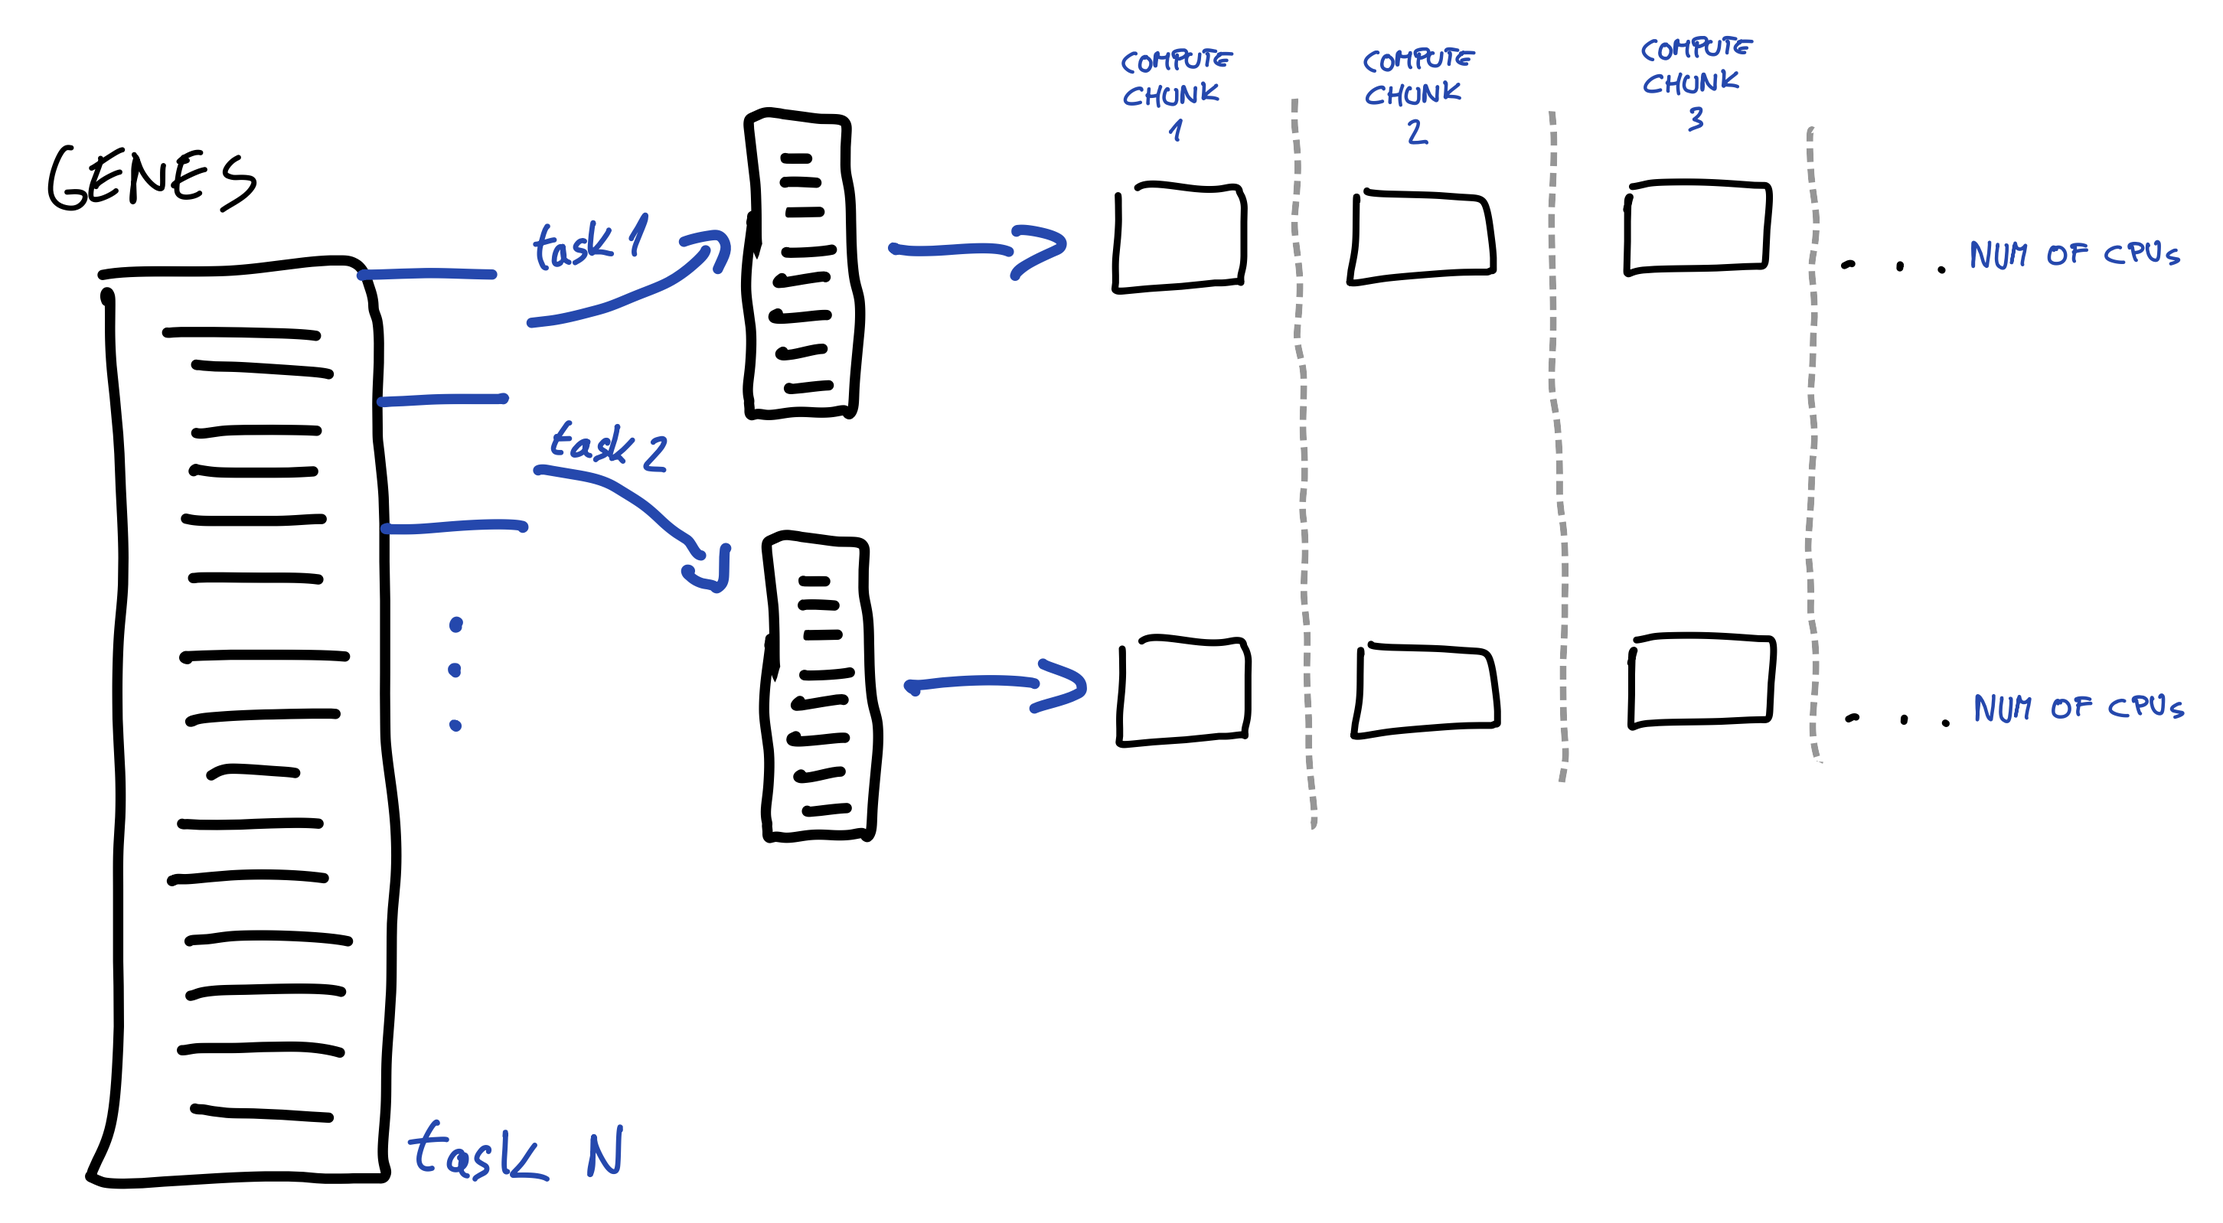
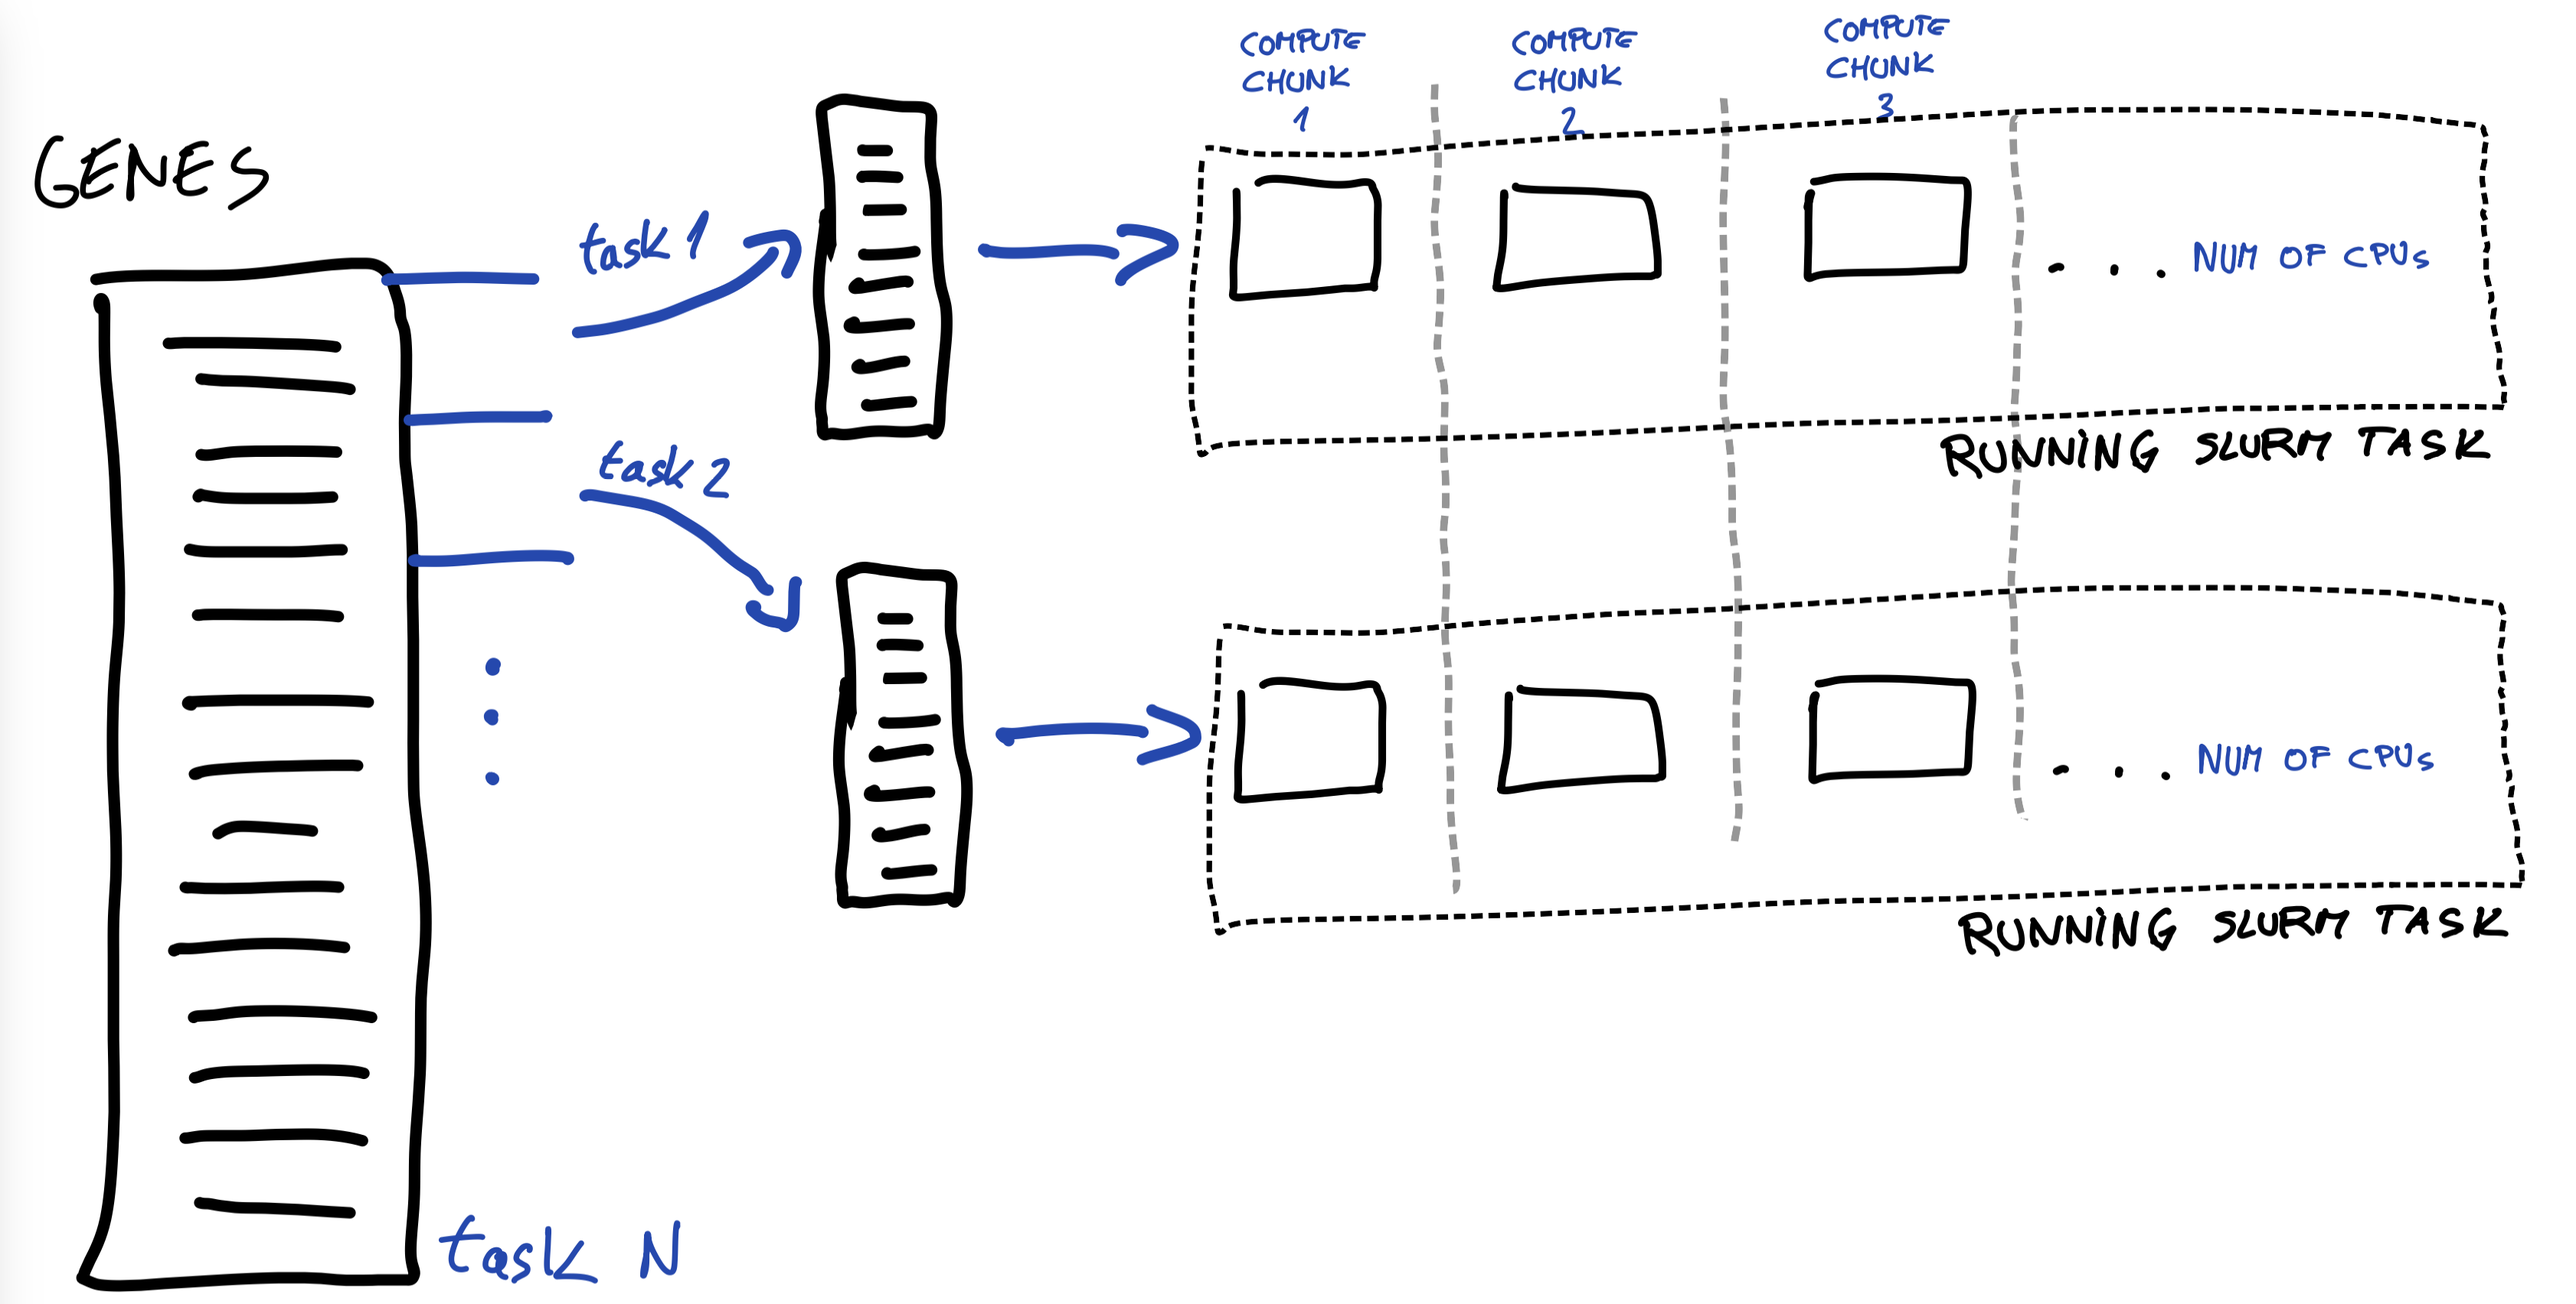
update Methods

diff --git a/README.md b/README.md
@@ -19,11 +19,116 @@ These numbers differ across the various TCGA datasets, reflecting each dataset's
 
 # Methods
 
-We implemented a python script which has two inputs; **data** and all **pair-wise combinations of genes**. We then split input genes in two distinct ways; given a number of tasks or CPUs. 
+### Experimental setup:
+
+- We used **ARNES** compute cluster to run our experiments. 
+ 
+- We limited ourselves to compute nodes with ids ranging from wn101 to wn162. These are nodes with 128 compute cores with AMD procesors.
+
+- Try different SLURM job configurations; multiple tasks accorss different nodes, multiple tasks on the same node, multiple CPU cores per task, etc.
+
+### Python script:
+
+We implemented a python script which has two inputs; **data** and all **pair-wise combinations of genes**. Example of running the [script](compute.py):
+
+``` bash
+compute.py --tcga_project "project-name" --input_data "path_to_data" --input_genes "path_to_gene_combinations"
+```
+
+Our [script](compute.py) is designed to work seamlessly with SLURM workload manager, allowing it to partition the input data across the specified number of SLURM tasks and fully utilize all available CPU cores within each task.
+
+The [script](compute.py) achieves this adaptability by reading SLURM environment variables like `SLURM_PROCID`, `SLURM_CPUS_PER_TASK`, and `SLURM_NTASKS`, which inform it about the task ID, the number of CPUs available per task, and the total number of tasks, respectively.
+
+Part of the [script](compute.py) that is responsible for spliting the input genes based on the number of tasks:
+
+``` python
+num_of_tasks = int(os.environ.get('SLURM_NTASKS'))
+slurm_proc_id = int(os.environ.get('SLURM_PROCID'))
+
+genes = pd.read_csv(args.input_genes, header=None)
+
+if num_of_tasks == 1:
+    genes = genes.values
+else:
+    # split input array in equal chunks based on `num_of_tasks`
+    # and select the corresponding chunk based on `slurm_proc_id`
+    # which is is ranging from 0 to `num_of_tasks` - 1
+    genes = np.array_split(genes, num_of_tasks)[slurm_proc_id].values
+```
+
+After obtaining the necessary chunk of input genes, we employ the [Joblib](https://joblib.readthedocs.io/en/stable/parallel.html) to further distribute the genes across the available CPU cores for a given task. Joblib is a Python library that provides an easy-to-use API for parallelizing computation across multiple cores. Joblib can support both multi-threading and multi-processing. The choice between spawning a thread or a process is determined by the backend that joblib is utilizing.
+
+Part of the [script](compute.py) that is responsible for further distributing the computation across the available CPU cores in a given task:
+
+``` python
+cpus_per_task = int(os.environ.get('SLURM_CPUS_PER_TASK'))
+
+df = pd.read_csv(input_data)
+
+if cpus_per_task == 1:
+    parallel_kwargs = {'return_as': 'generator'}
+else:
+    parallel_kwargs = {'n_jobs': cpus_per_task, 
+                       'return_as': 'generator', 
+                       'batch_size': len(genes)//cpus_per_task, 
+                       'pre_dispatch': 'all'}
+
+# If we use n_jobs = -1, joblib will use all available CPU cores.
+# However, python process will see all available CPU cores on the node.
+# This number may be different from what we specified in our SLURM job config.
+# To avoid this, we use `cpus_per_task` to specify the number of CPU cores.
+
+# run the parallel computation
+parallel = Parallel(**parallel_kwargs)
+results = parallel(
+    delayed(worker)(g1, df[g1], g2, df[g2], df['time'], df['event'])
+    for g1, g2 in genes
+)
+```
+
+
+The image below illustrates the overall workflow of the [script](compute.py) and how it interacts with the SLURM scheduler.
 
 ![](images/image0.png)
 
-We utilize the following SLURM environment variables: `SLURM_PROCID`, `SLURM_NTASKS`, and `SLURM_CPUS_PER_TASK`. The input gene array is divided based on the number of tasks. Subsequently, we index the corresponding segment using `SLURM_PROCID`. After obtaining the necessary gene segment, we employ the Joblib Python library to further distribute the genes across the available compute cores.
+In summary we split input genes in two distinct ways; given a number of tasks and CPU cores in a give task. This allows us to easily scale the computation based on the available resources. With this approach we were able to experiment with different SLURM job configurations and compare the results. 
+
+
+### SBATCH configuration:
+
+Finaly here is the template of SBATCH bash script we used to run our experiments. In this script we (1) provide the required resources and other parameters for the execution of the job, (2) we load Anaconda environment through modules, (3) we specify the path to the Python interpreter of the conda environment, and (4) we use 'srun' to run the python script.
+
+```bash
+#!/bin/bash
+#SBATCH --time=00:01:00
+#SBATCH --job-name=gene_interactions
+#SBATCH --output=stdout/%x-%A_%a.out
+#SBATCH --error=stderr/%x-%A_%a.err
+#SBATCH --ntasks=<number_of_tasks>
+#SBATCH --cpus-per-task=<number_of_cpus>
+#SBATCH --nodes=<desired_number_of_nodes>
+#SBATCH --array=<range_of_permutations>
+#SBATCH --exclude=wn[051,052,053,061,062,064,065]
+
+# Load module
+module load Anaconda3/2022.05
+
+# Specify the path to the Python interpreter of the conda environment
+PYTHON_ENV_PATH="/d/hpc/home/jkokosar/miniconda3/envs/dev/bin/python"
+
+tcga_project=$1
+
+data_input_file="data/${tcga_project}/${tcga_project}-data.csv"
+gene_input_file="data/${tcga_project}/all-combinations.csv"
+
+
+# Run the script with the Python interpreter of the environment
+srun $PYTHON_ENV_PATH compute.py --tcga_project "$tcga_project" --input_data "$data_input_file"  --input_genes "$gene_input_file"
+```
+
+
+
+# Benchmark Setup
 
 Ultimately, we would like to use this environment to speed up our experiments. Here, we are focusing on a specific dataset and a reduced number of genes. On our local machine, M1 Macs, there are 8 high-performance cores. If we use all the compute power on this specific dataset, we roughly need around 3 minutes. However, we have to consider the following:
 
@@ -32,9 +137,6 @@ Ultimately, we would like to use this environment to speed up our experiments. H
 - We want to perform permutation tests, which add additional computational needs.
 
 Just to run one experiment of this size and 1000 permutation tests, it would take us more than 48 hours. Access to such computer systems can significantly contribute to the accelerated execution of these kinds of experiments. Below, we present several different scenarios and benchmarks that have helped us in understanding and managing these kinds of systems.
-
-
-# Benchmark Setup
 
 ## sacct vs time library
 We decided to use `sacct` to extract the runtimes of the python script. What we found is that those times differ significantly from time measured in python script. We suspect this is because `sacct` times probably also consider the time it takes for the resources to be allocated. For example, when we ran a `sbatch` with 1024 tasks and 1 CPU core and printed compute times for all tasks (using the time library in python), we got ranging values from 4 to 5s (per task). If we do `sacct` of that job, the raw elapsed time is around 14s. This was just one example, but we consistently noticed the difference in our experiments.
